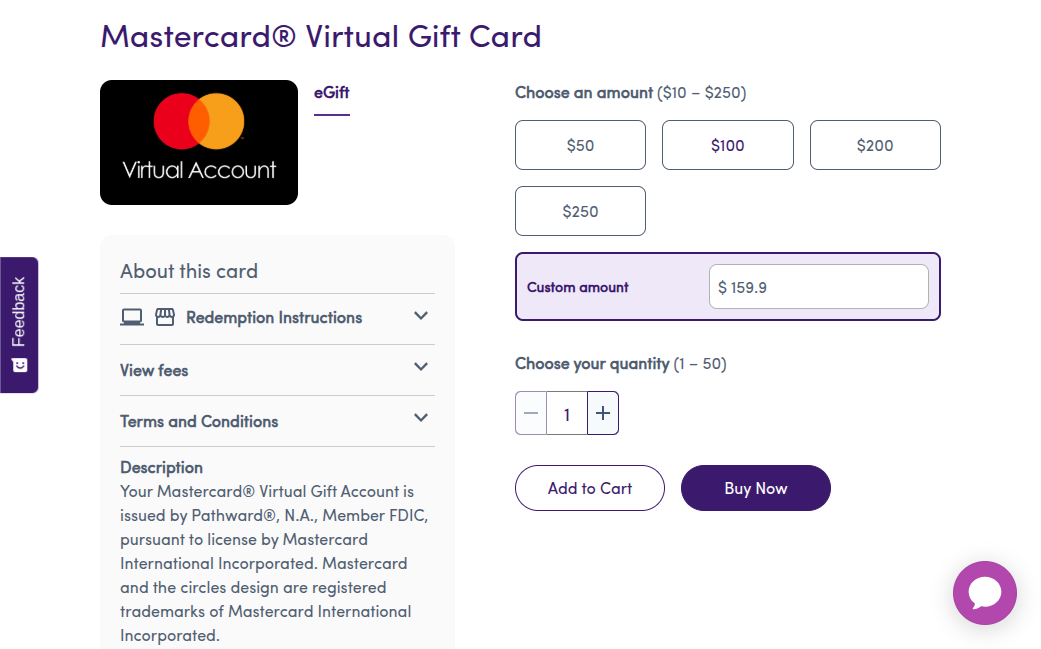
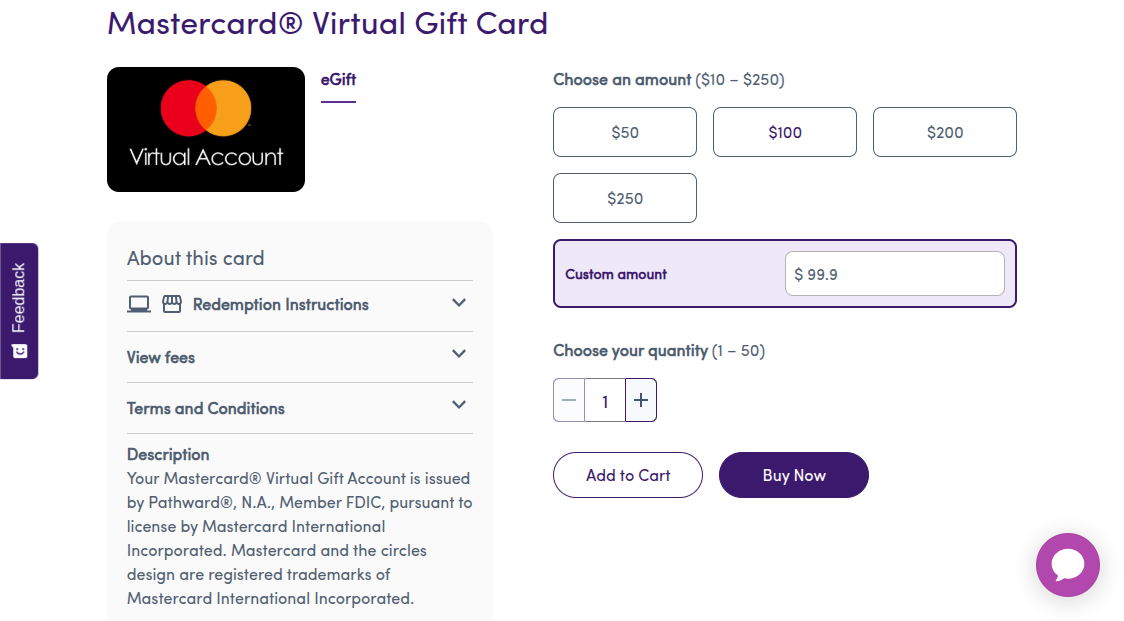
Add files via upload

diff --git a/src/attient/pay-premium.php b/src/attient/pay-premium.php
@@ -171,23 +171,28 @@ function g_resize() {
 
 + Continuous connection to back-end (99% uptime)
 
-+ Dedicated subdomain and/or dedicated custom domain 
++ Dedicated subdomain 
 
-+ Limited access (around 300 non-cached 
++ Limited access (around 700 non-cached 
 
 query a day) to AI model (Google Gemma)
 
-+ Price: $159.9 / year
++ Price: $99.9 / year
 
 
 ---------------------|_|-----------------------
                 HOW TO PAY
 -----------------------------------------------
 
-+ Please send Mastercard® Virtual Gift Cards to us via
-  <a target="_blank" href="https://www.giftcards.com/us/en/catalog/product-details/mastercard-egift-gift-card">https://www.giftcards.com/us/en/catalog/product-details/mastercard-egift-gift-card</a> . After 3 days, we will send you setup account information.
++ We now only accept Mastercard® Virtual Gift Cards.
+After having more than 10 premium users, we will
+accept other payment methods.
 
-o Amount: $159.9
++ Please send Mastercard® Virtual Gift Cards to us via
+  <a target="_blank" href="https://www.giftcards.com/us/en/catalog/product-details/mastercard-egift-gift-card">https://www.giftcards.com/us/en/catalog/product-details/mastercard-egift-gift-card</a> . 
+After 3 days, we will send you setup account information.
+
+o Amount: $99.9
 
 o Quantity: 1
 
@@ -204,15 +209,7 @@ o Message:
 + Code: airespaker.premium
 + Email: &gt; Email to contact you &lt;
 + airespaker's username: 
-  &gt; Username which you registered on [airespaker] &lt;
-+ Dedicated subdomain: 
-  &gt; Subdomain which you'd like to have. 
-  Your domain should be: __sub__.airespaker.com &lt;
-+ Dedicated domain: 
-  &gt; Custom domain which you'd like to have. 
-  You should choose another domain if it has been registered.
-  We will contact you in this case.&lt;
-  
+  &gt; Username which you registered on [airespaker] &lt;  
     -----
 
 o Delivery Method: Send by email

diff --git a/src/attient/index.php b/src/attient/index.php
@@ -43,6 +43,7 @@ if ( $g_config['prelaunch'] ) {
   <link rel="stylesheet" href="/components/register_page.css">
   <script src="/components/aircache_page.js"></script>
   <link rel="stylesheet" href="/components/aircache_page.css">
+  <script src="/components/savecache_page.js"></script>
   <script src="https://cdn.jsdelivr.net/npm/latex.js/dist/latex.js"></script>
   <link rel="stylesheet" href="https://cdnjs.cloudflare.com/ajax/libs/highlight.js/11.11.1/styles/github.min.css">
   <script src="https://cdnjs.cloudflare.com/ajax/libs/highlight.js/11.11.1/highlight.min.js"></script> 
@@ -158,6 +159,7 @@ function gj_load() {
   v_app.component( 'profile_page', ProfilePage );
   v_app.component( 'register_page', RegisterPage );
   v_app.component( 'aircache_page', AIRCachePage );
+  v_app.component( 'savecache_page', SaveCachePage );
   v_app.component( 'dashboard_page', DashboardPage );
   v_app.component( 'online_page', OnlinePage );
   gv_app = v_app.mount('#ge_app');
